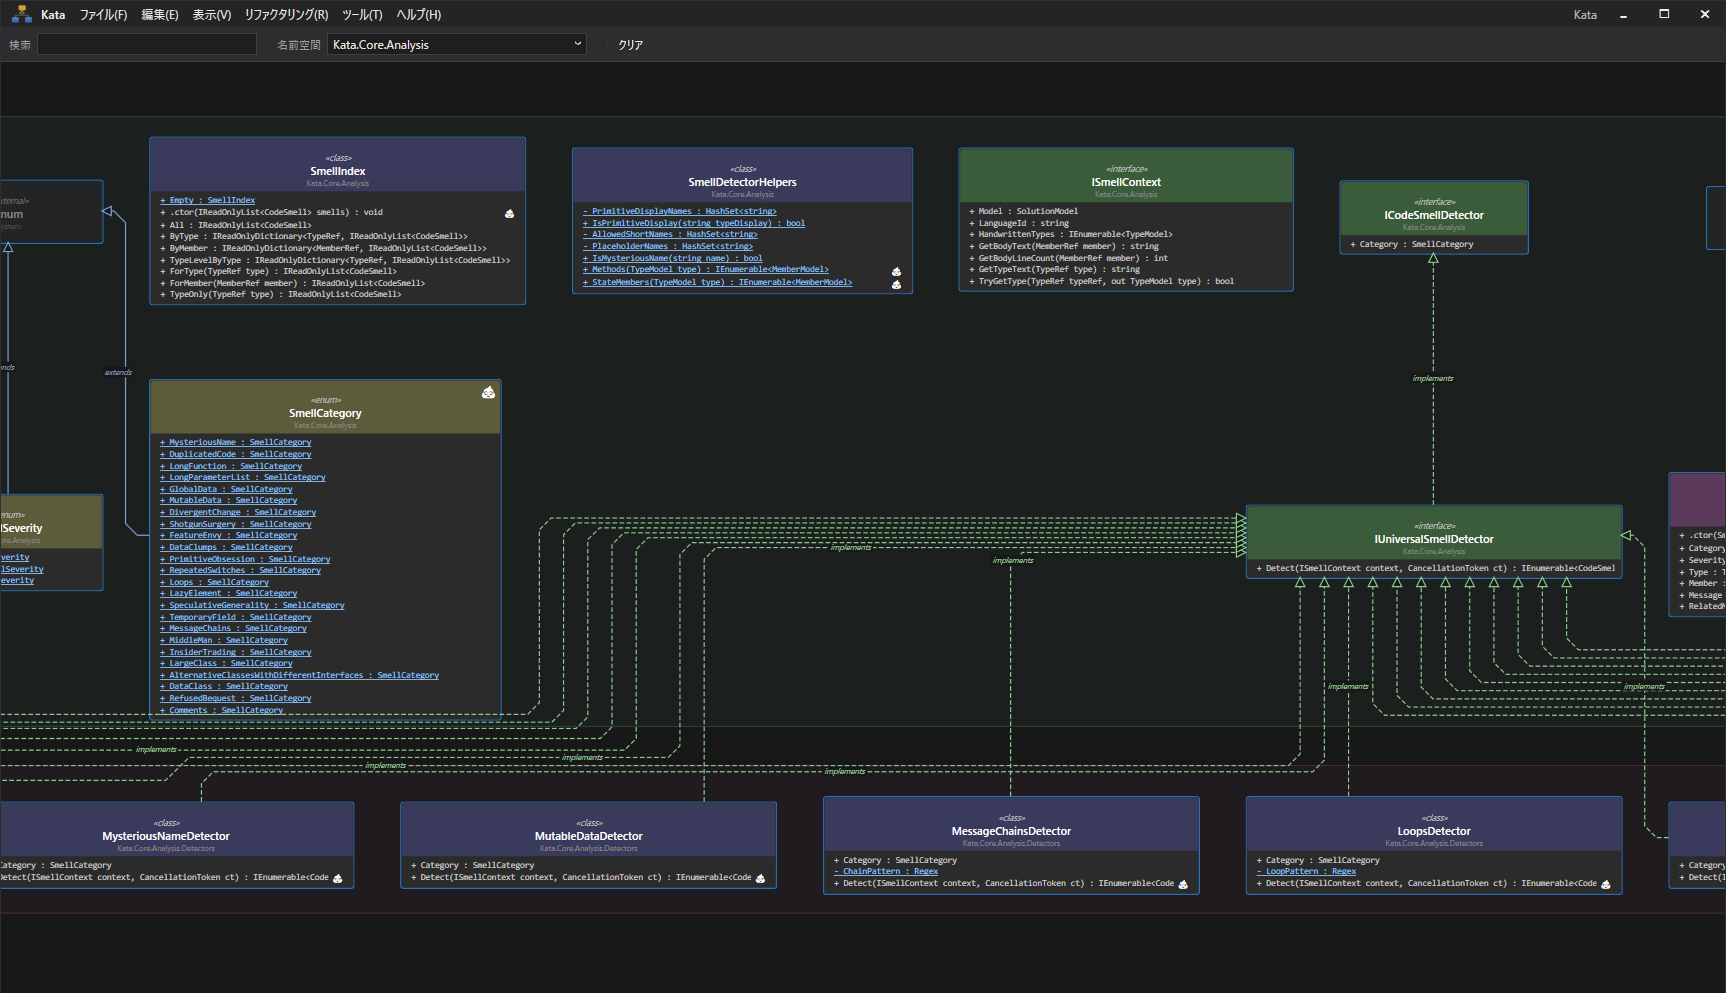
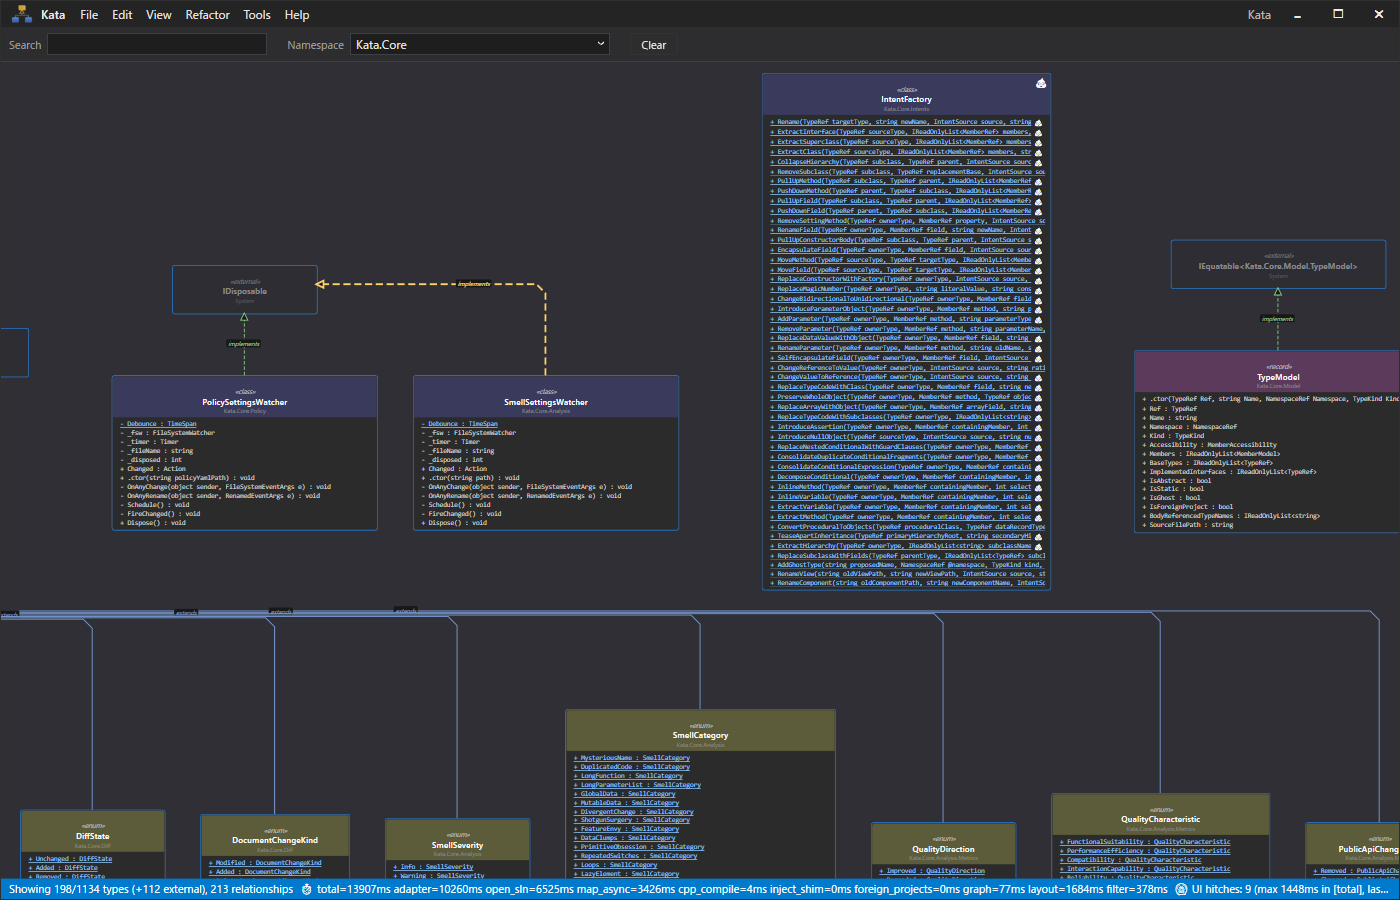
site: hero と real-world scale shot を英語 UI に差し替え
- kata-diagram.png: Kata.Core namespace の 198 types × 213 relationships
  (IntentFactory / TypeModel / SmellSettingsWatcher / SmellCategory 等)
  前版は 57 types だったが自身がデカくなったので鮮度更新
- kata-vscode-typescript.png: VSCode 21464 types / 1157 subset を英語 UI で
- hero の figcaption を "Kata.Core namespace, 198 types, 213 relationships" に更新

diff --git a/site/index.html b/site/index.html
@@ -45,8 +45,8 @@
       <a class="btn secondary" href="/pro">Get Kata Pro →</a>
     </div>
     <figure class="hero-shot">
-      <img src="/assets/kata-diagram.png" alt="Kata rendering its own solution — dark-themed class diagram with ViewModel classes wired to ObservableObject." loading="lazy">
-      <figcaption>Kata dogfooding on its own <code>Kata.slnx</code> — 57 types, 57 relationships.</figcaption>
+      <img src="/assets/kata-diagram.png" alt="Kata rendering its own Kata.Core namespace — IntentFactory, TypeModel, SmellSettingsWatcher / PolicySettingsWatcher implementing IDisposable, plus enum stereotypes for SmellCategory, QualityCharacteristic, and friends." loading="lazy">
+      <figcaption>Kata dogfooding on its own <code>Kata.slnx</code> — <code>Kata.Core</code> namespace, 198 types, 213 relationships.</figcaption>
     </figure>
   </div>
 </section>
